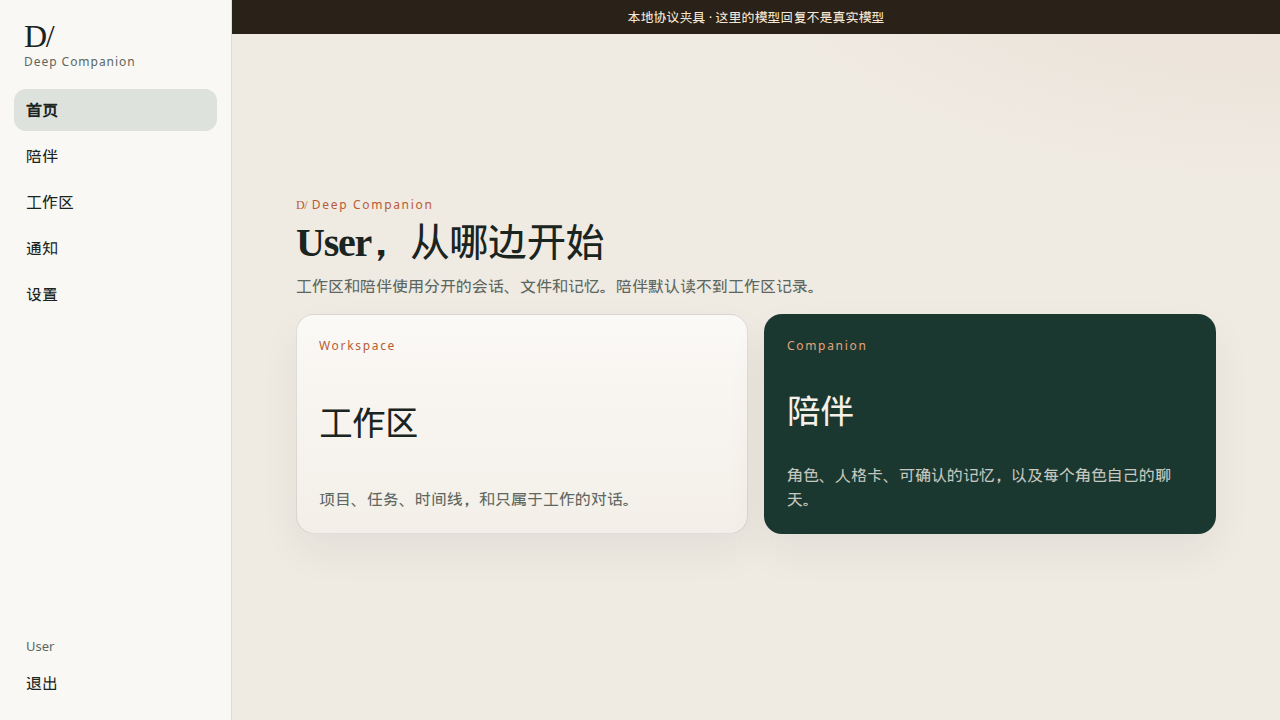
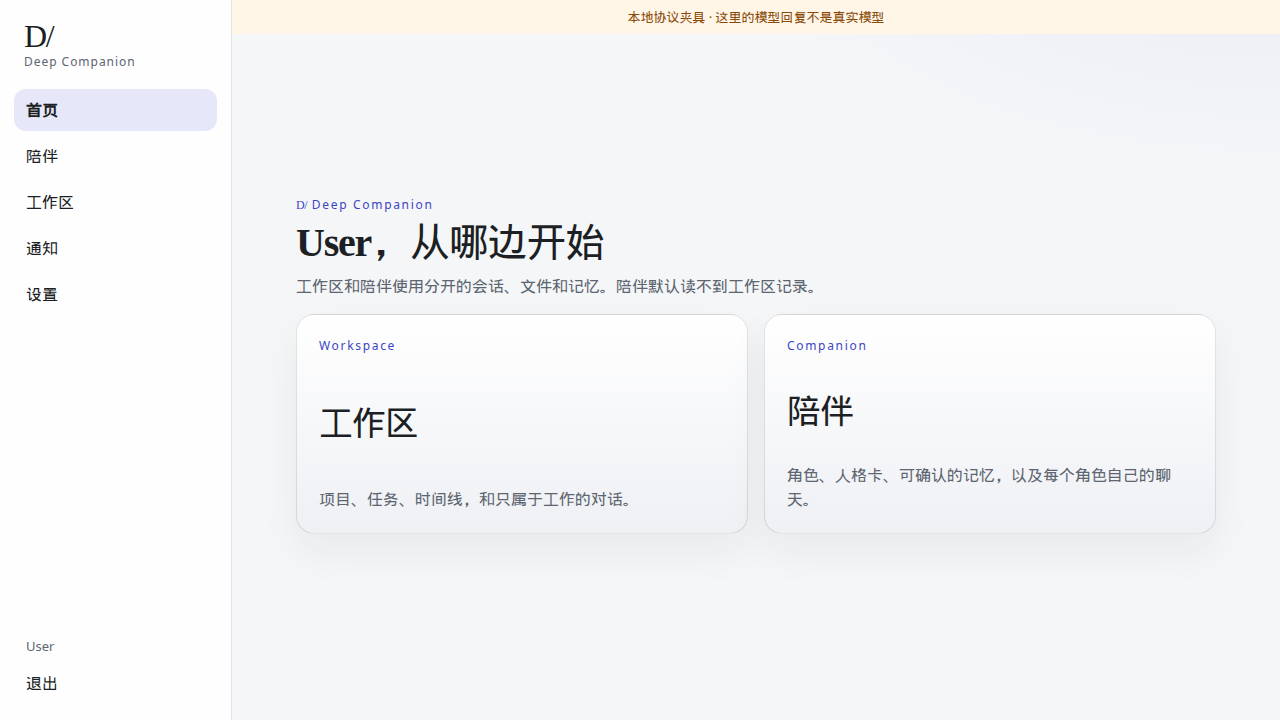
Recolor D/ to a cool white field with an indigo accent.
Replace the stone and pine palette only. Buttons, selection, and focus use indigo; warnings and errors stay separate.

diff --git a/web/src/styles.css b/web/src/styles.css
@@ -1,20 +1,23 @@
 :root {
-  --canvas: #efeae2;
-  --surface: #fbf9f6;
-  --surface-2: #f3efe8;
-  --ink: #1a2420;
-  --ink-soft: #5c675f;
-  --line: rgba(26, 36, 32, 0.12);
-  --pine: #1e4a3a;
-  --pine-ink: #f7faf8;
-  --persimmon: #b85c34;
-  --user: #e3efe7;
-  --shadow: 0 18px 40px rgba(26, 36, 32, 0.06);
-  --danger-bg: #fde8e4;
-  --danger-line: #e4b2a8;
-  --chip: #efe6d8;
-  --hover: rgba(30, 74, 58, 0.08);
-  --nav-active: rgba(30, 74, 58, 0.12);
+  --canvas: #f5f6f8;
+  --surface: #ffffff;
+  --surface-2: #eef0f4;
+  --ink: #1c1f24;
+  --ink-soft: #5c6570;
+  --line: rgba(28, 31, 36, 0.12);
+  --accent: #3c45c4;
+  --accent-ink: #ffffff;
+  --accent-press: #2f36a8;
+  --warn: #8a4b08;
+  --warn-bg: #fff6e8;
+  --user: #eef0f6;
+  --shadow: 0 18px 40px rgba(28, 31, 36, 0.06);
+  --danger: #9f1d1d;
+  --danger-bg: #fdecee;
+  --danger-line: #f0b4b4;
+  --chip: #e8eaef;
+  --hover: rgba(60, 69, 196, 0.08);
+  --nav-active: rgba(60, 69, 196, 0.12);
   --font: "Avenir Next", "PingFang SC", "Hiragino Sans GB", "Noto Sans SC", "Segoe UI", sans-serif;
   --display: "Iowan Old Style", Palatino, "Songti SC", "Noto Serif SC", serif;
   --safe-top: env(safe-area-inset-top, 0px);
@@ -32,16 +35,16 @@ html, body, #root { min-height: 100%; }
 body { margin: 0; background: var(--canvas); color: var(--ink); }
 button, input, textarea, select { font: inherit; color: inherit; }
 button { cursor: pointer; }
-a { color: var(--pine); }
-::selection { background: rgba(184, 92, 52, 0.22); }
-:focus-visible { outline: 2px solid var(--persimmon); outline-offset: 2px; }
+a { color: var(--accent); }
+::selection { background: rgba(60, 69, 196, 0.18); }
+:focus-visible { outline: 2px solid var(--accent); outline-offset: 2px; }
 .mark { font-family: var(--display); letter-spacing: -0.04em; }
 
 .shell {
   min-height: 100dvh;
   display: flex;
   background:
-    radial-gradient(900px 420px at 100% -10%, rgba(184, 92, 52, 0.08), transparent 60%),
+    radial-gradient(900px 420px at 100% -10%, rgba(60, 69, 196, 0.06), transparent 60%),
     var(--canvas);
 }
 .shell.is-chat {
@@ -96,8 +99,8 @@ html.chat-lock, html.chat-lock body { height: 100dvh; overflow: hidden; }
 .fixture-ribbon {
   margin: 0;
   padding: 8px 16px;
-  background: #2a2118;
-  color: #f6e7d4;
+  background: var(--warn-bg);
+  color: var(--warn);
   font-size: 13px;
   line-height: 1.4;
   text-align: center;
@@ -123,7 +126,7 @@ html.chat-lock, html.chat-lock body { height: 100dvh; overflow: hidden; }
 .page-head { justify-content: space-between; align-items: flex-end; margin-bottom: 8px; }
 .eyebrow {
   margin: 0 0 6px;
-  color: var(--persimmon);
+  color: var(--accent);
   font-size: 12px;
   letter-spacing: 0.14em;
 }
@@ -166,12 +169,11 @@ h2 { font-size: 18px; margin: 0 0 8px; }
   letter-spacing: -0.03em;
   margin: 12px 0 8px;
 }
-.entry .kicker { font-size: 12px; letter-spacing: 0.14em; color: var(--persimmon); }
+.entry .kicker { font-size: 12px; letter-spacing: 0.14em; color: var(--accent); }
 .entry p { margin: 0; color: var(--ink-soft); }
-.entry-companion { background: #1b3830; color: #f6f1e8; border-color: transparent; }
-.entry-companion .kicker { color: #e3a27c; }
-.entry-companion p { color: rgba(246, 241, 232, 0.78); }
-.entry-work { background: linear-gradient(180deg, var(--surface), var(--surface-2)); }
+.entry-companion, .entry-work { background: linear-gradient(180deg, var(--surface), var(--surface-2)); color: inherit; }
+.entry-companion .kicker, .entry-work .kicker { color: var(--accent); }
+.entry-companion p, .entry-work p { color: var(--ink-soft); }
 
 label { display: grid; gap: 6px; margin: 10px 0; font-size: 14px; color: var(--ink-soft); }
 input, textarea, select {
@@ -194,13 +196,29 @@ button.primary, a.primary, button.ghost, button.template {
   padding: 10px 16px;
   text-decoration: none;
 }
-button.primary, a.primary { background: var(--pine); color: var(--pine-ink); border: 0; font-weight: 650; }
+button.primary, a.primary { background: var(--accent); color: var(--accent-ink); border: 0; font-weight: 650; }
+button.primary:hover, a.primary:hover { background: var(--accent-press); }
+button.primary:disabled, button.primary:disabled:hover, a.primary:disabled {
+  background: #e6e8ee;
+  color: #5e6672;
+}
 button.ghost, button.template { background: transparent; border: 1px solid var(--line); color: var(--ink); }
-button.danger { color: var(--persimmon); }
-button:disabled { opacity: 0.45; cursor: not-allowed; }
+button.danger { color: var(--danger); }
+button:disabled {
+  opacity: 1;
+  cursor: not-allowed;
+  color: #5e6672;
+  background: #e6e8ee;
+  border-color: transparent;
+}
+button.ghost:disabled, button.template:disabled {
+  background: transparent;
+  color: #6b7280;
+  border-color: #d5d9e2;
+}
 .error, .banner { padding: 10px 12px; border-radius: 12px; margin: 0 0 12px; }
-.error { background: var(--danger-bg); border: 1px solid var(--danger-line); }
-.banner { background: var(--surface); border: 1px solid var(--line); border-left: 3px solid var(--persimmon); }
+.error { background: var(--danger-bg); border: 1px solid var(--danger-line); color: var(--danger); }
+.banner { background: var(--warn-bg); border: 1px solid #f0d7b0; border-left: 3px solid var(--warn); color: var(--ink); }
 .list-item {
   display: flex;
   justify-content: space-between;
@@ -239,7 +257,7 @@ button:disabled { opacity: 0.45; cursor: not-allowed; }
   white-space: pre-wrap;
   overflow: auto;
   max-width: 100%;
-  background: #f7f4ee;
+  background: #f3f4f8;
   color: var(--ink);
   padding: 12px;
   border-radius: 12px;
@@ -259,8 +277,8 @@ button:disabled { opacity: 0.45; cursor: not-allowed; }
   display: grid;
   place-items: center;
   border-radius: 16px;
-  background: #1b3830;
-  color: #f6f1e8;
+  background: var(--accent);
+  color: var(--accent-ink);
   font-family: var(--display);
   font-size: 22px;
 }
@@ -269,7 +287,7 @@ button:disabled { opacity: 0.45; cursor: not-allowed; }
   margin: 18px 0 0;
   font-size: 12px;
   letter-spacing: 0.12em;
-  color: var(--persimmon);
+  color: var(--accent);
 }
 label.file-input {
   position: relative;
@@ -310,16 +328,16 @@ label.file-input input[type="file"] {
   gap: 14px;
   padding: 48px 40px;
   background:
-    radial-gradient(520px 240px at 18% 0%, rgba(227, 162, 124, 0.22), transparent 55%),
-    #17241f;
-  color: #f6f1e8;
+    radial-gradient(520px 240px at 18% 0%, rgba(90, 104, 230, 0.28), transparent 55%),
+    #1b1e27;
+  color: #f4f6fb;
 }
 .auth-story .brand { margin: 0; color: inherit; }
 .auth-story .mark { display: block; font-size: 64px; line-height: 0.85; margin-bottom: 8px; }
 .auth-story h1, .auth-story h2 { color: inherit; }
 .auth-story h1 { max-width: 11em; }
 .auth-story ol { margin: 0; padding-left: 18px; }
-.auth-story li, .story-note, .auth-story [data-testid="registration-state"] { color: rgba(246, 241, 232, 0.88); }
+.auth-story li, .story-note, .auth-story [data-testid="registration-state"] { color: rgba(244, 246, 251, 0.86); }
 .story-note { margin: 8px 0; }
 .auth-panel {
   display: flex;
@@ -385,11 +403,11 @@ label.file-input input[type="file"] {
   outline: none;
 }
 .ds-chat div:has(> div > textarea[data-testid="composer"]) {
-  border-color: rgba(26, 36, 32, 0.14);
-  box-shadow: 0 10px 28px rgba(26, 36, 32, 0.05);
+  border-color: rgba(28, 31, 36, 0.14);
+  box-shadow: 0 10px 28px rgba(28, 31, 36, 0.05);
 }
 .ds-chat div:has(> div > textarea[data-testid="composer"]):focus-within {
-  border-color: rgba(30, 74, 58, 0.45);
+  border-color: rgba(60, 69, 196, 0.55);
 }
 .ds-chat div:has(textarea[data-testid="composer"]) + div {
   flex-wrap: wrap;
@@ -472,23 +490,23 @@ body {
   --dsw-alias-border-l2: var(--line);
   --dsw-alias-border-l2-darkmode-thin: var(--line);
   --dsw-alias-border-l3: var(--line);
-  --dsw-alias-brand-primary: var(--pine);
-  --dsw-alias-brand-primary-invert: var(--pine);
-  --dsw-alias-brand-text: var(--pine);
-  --dsw-alias-button-primary-fill: var(--pine);
-  --dsw-alias-button-primary-hover: #16382c;
-  --dsw-alias-button-ghost-active-border: #9dccb6;
-  --dsw-alias-button-ghost-active-fill: var(--user);
-  --dsw-alias-button-ghost-active-hover: #d5e7de;
+  --dsw-alias-brand-primary: var(--accent);
+  --dsw-alias-brand-primary-invert: var(--accent);
+  --dsw-alias-brand-text: var(--accent);
+  --dsw-alias-button-primary-fill: var(--accent);
+  --dsw-alias-button-primary-hover: var(--accent-press);
+  --dsw-alias-button-ghost-active-border: #c5c9f2;
+  --dsw-alias-button-ghost-active-fill: #e8eaf8;
+  --dsw-alias-button-ghost-active-hover: #dde0f6;
   --dsw-alias-label-primary: var(--ink);
   --dsw-alias-label-secondary: var(--ink-soft);
   --dsw-alias-label-tertiary: var(--ink-soft);
-  --dsw-alias-label-primary-foreground: var(--pine-ink);
+  --dsw-alias-label-primary-foreground: var(--accent-ink);
   --dsw-specific-bubble: var(--user);
   --dsw-specific-input-major: var(--surface);
-  --dsw-alias-markdown-code-block: #f7f4ee;
-  --dsw-alias-markdown-code-block-banner: #ebe4d8;
-  --dsw-alias-markdown-inline-code: rgba(30, 74, 58, 0.1);
+  --dsw-alias-markdown-code-block: #f3f4f8;
+  --dsw-alias-markdown-code-block-banner: #e6e8ef;
+  --dsw-alias-markdown-inline-code: rgba(60, 69, 196, 0.1);
   --dsw-alias-interactive-bg-hover: var(--hover);
   --dsw-specific-sidebar-nav-item-active-accent: var(--nav-active);
 }

diff --git a/web/index.html b/web/index.html
@@ -3,7 +3,7 @@
   <head>
     <meta charset="UTF-8" />
     <meta name="viewport" content="width=device-width, initial-scale=1, viewport-fit=cover, interactive-widget=resizes-content" />
-    <meta name="theme-color" content="#efeae2" />
+    <meta name="theme-color" content="#f5f6f8" />
     <title>Deep Companion</title>
   </head>
   <body>
